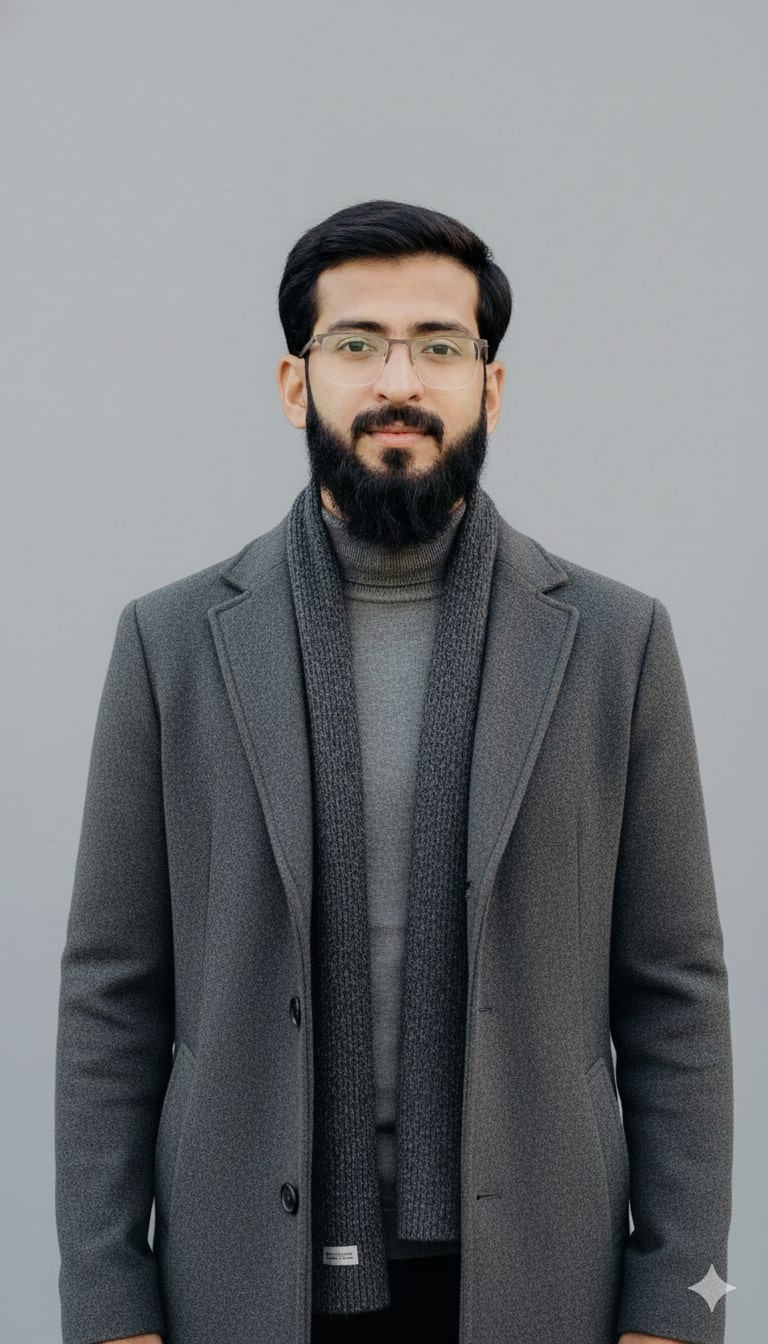
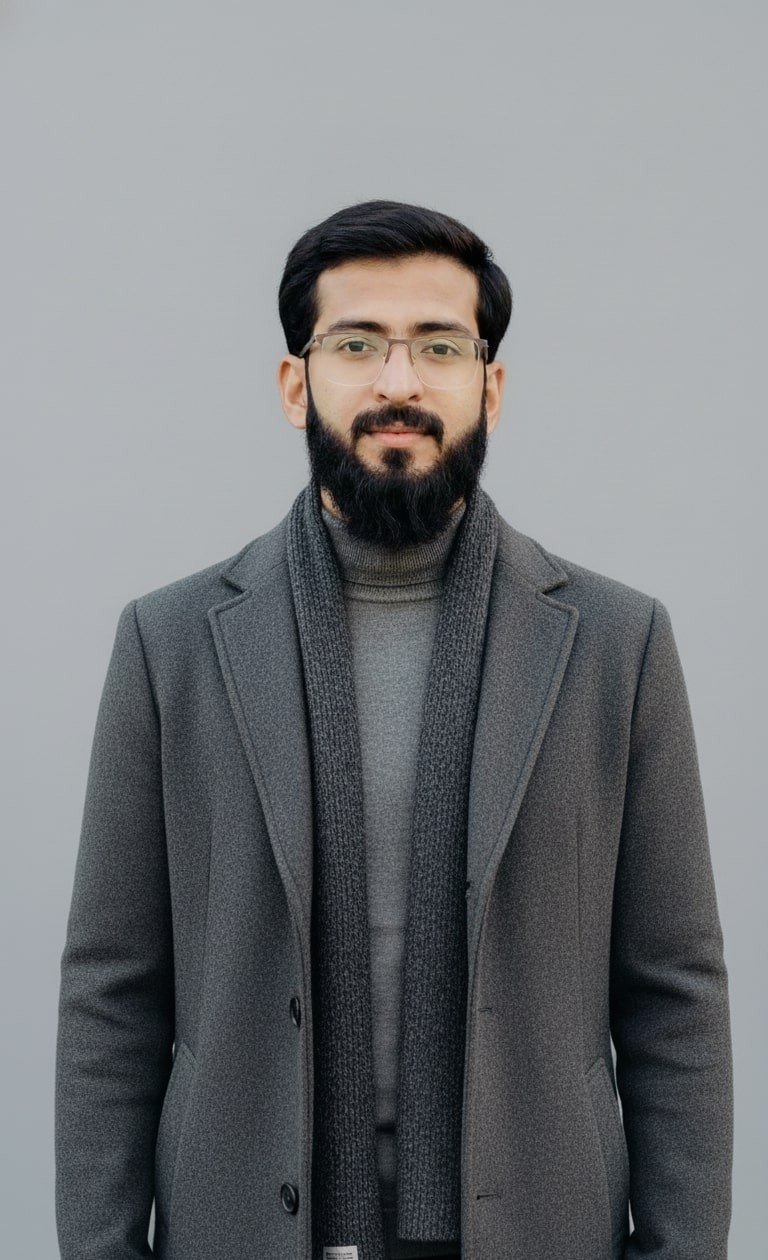
fix image of hero section

Changed region(s): [[0.0625, 0.1238, 0.9688, 1.0]]

diff --git a/src/site-lens/components/body/3d-crawl-diagram/components/graph/graph-settings-panel.tsx b/src/site-lens/components/body/3d-crawl-diagram/components/graph/graph-settings-panel.tsx
@@ -112,7 +112,7 @@ export const GraphSettingsPanel: React.FC<IGraphSettingsPanelProps> = ({
       </div>
       <div className='flex flex-col gap-2 py-2'>
         <div className='flex flex-col gap-2 mb-3 last:mb-0'>
-          <span className={`font-['Geist_Sans',sans-serif] text-sm font-normal ${theme === 'dark' ? 'text-white' : 'text-[#1a1a1a]'}`}>Size nodes by</span>
+          <span className={`font-['Manrope',sans-serif] text-sm font-normal ${theme === 'dark' ? 'text-white' : 'text-[#1a1a1a]'}`}>Size nodes by</span>
           <SimpleTooltip title={sizes.find(o => o.value === sizeBy)?.label ?? sizeBy} placement='right' color='#000' open={isSizeDropdownOpen ? false : undefined}>
             <DropdownMenu onOpenChange={open => setIsSizeDropdownOpen(open)}>
               <DropdownMenuTrigger asChild>
@@ -142,7 +142,7 @@ export const GraphSettingsPanel: React.FC<IGraphSettingsPanelProps> = ({
 
         <div className='flex flex-col gap-2 mb-3 last:mb-0'>
           <SimpleTooltip title='Choose the metric that determines node colors'>
-            <span className={`inline-block font-['Geist_Sans',sans-serif] text-sm font-normal ${theme === 'dark' ? 'text-white' : 'text-[#1a1a1a]'}`}>Color nodes by</span>
+            <span className={`inline-block font-['Manrope',sans-serif] text-sm font-normal ${theme === 'dark' ? 'text-white' : 'text-[#1a1a1a]'}`}>Color nodes by</span>
           </SimpleTooltip>
           <SimpleTooltip title={COLOR_OPTIONS.find(o => o.value === colorBy)?.label ?? colorBy} placement='right' color='#000' open={isColorDropdownOpen ? false : undefined}>
             <DropdownMenu onOpenChange={open => setIsColorDropdownOpen(open)}>
@@ -185,7 +185,7 @@ export const GraphSettingsPanel: React.FC<IGraphSettingsPanelProps> = ({
 
         <div className='flex flex-col gap-2 mb-3 last:mb-0'>
           <div className='flex items-center justify-between'>
-            <span className={`font-['Geist_Sans',sans-serif] text-sm font-normal ${theme === 'dark' ? 'text-white' : 'text-[#1a1a1a]'}`}>Max Depth</span>
+            <span className={`font-['Manrope',sans-serif] text-sm font-normal ${theme === 'dark' ? 'text-white' : 'text-[#1a1a1a]'}`}>Max Depth</span>
             <span className='text-sm font-semibold text-brand-primary'>{expandToLevel}</span>
           </div>
           <Slider
@@ -200,11 +200,11 @@ export const GraphSettingsPanel: React.FC<IGraphSettingsPanelProps> = ({
 
       <div className='flex flex-col gap-3 mt-3'>
         <div className={NODES_ON_DRAG_CLASS}>
-          <span className={`shrink-0 font-['Geist_Sans',sans-serif] text-sm font-normal ${theme === 'dark' ? 'text-white' : 'text-[#1a1a1a]'}`}>Show labels</span>
+          <span className={`shrink-0 font-['Manrope',sans-serif] text-sm font-normal ${theme === 'dark' ? 'text-white' : 'text-[#1a1a1a]'}`}>Show labels</span>
           <Switch checked={showLabels} onCheckedChange={checked => setShowLabels(!!checked)} />
         </div>
         <div className={NODES_ON_DRAG_CLASS}>
-          <span className={`shrink-0 font-['Geist_Sans',sans-serif] text-sm font-normal ${theme === 'dark' ? 'text-white' : 'text-[#1a1a1a]'}`}>Fix nodes on drag</span>
+          <span className={`shrink-0 font-['Manrope',sans-serif] text-sm font-normal ${theme === 'dark' ? 'text-white' : 'text-[#1a1a1a]'}`}>Fix nodes on drag</span>
           <Switch checked={nodesFixOnDrag} onCheckedChange={checked => handleNodesFixOnDrag(!!checked)} />
         </div>
       </div>

diff --git a/src/components/Hero.jsx b/src/components/Hero.jsx
@@ -26,7 +26,7 @@ export default function Hero() {
             Open to new opportunities
           </Reveal>
 
-          <Reveal as="h1" delay={1} className="text-[clamp(44px,8vw,88px)] leading-[1.02] font-bold tracking-[-0.03em] font-display">
+          <Reveal as="h1" delay={1} className="text-[clamp(36px,6vw,68px)] leading-[1.02] font-bold tracking-[-0.03em] font-display whitespace-nowrap">
             Muhammad <span className="grad-text">Anas</span>
           </Reveal>
 
@@ -73,24 +73,38 @@ export default function Hero() {
 
         <Reveal
           delay={2}
-          className="relative w-full h-105 sm:h-120 max-w-100 mx-auto lg:w-auto lg:h-auto lg:max-w-none lg:min-h-full lg:mx-0"
+          className="relative w-full max-w-120 sm:max-w-140 lg:max-w-150 aspect-square mx-auto lg:mx-0 flex items-center justify-center"
         >
-          <div className="absolute -inset-2.5 rounded-4xl bg-linear-to-br from-primary/30 to-violet/20 blur-xl opacity-60" />
-          <div className="absolute inset-0 rounded-[28px] overflow-hidden border border-edge/12 bg-card-2 shadow-[0_30px_70px_rgba(0,0,0,0.5)]">
-            <img
-              src="/anas.webp"
-              alt="Muhammad Anas"
-              className="absolute inset-0 w-full h-full object-cover"
-              fetchPriority="high"
-              loading="eager"
-              decoding="async"
-              onError={(e) => {
-                e.currentTarget.style.display = "none";
-              }}
+          <svg
+            className="absolute inset-0 w-full h-full scale-110"
+            style={{ filter: "blur(36px)" }}
+            viewBox="-100 -100 200 200"
+            preserveAspectRatio="xMidYMid meet"
+            aria-hidden="true"
+          >
+            <defs>
+              <linearGradient id="heroBlobGradient" x1="0%" y1="0%" x2="100%" y2="100%">
+                <stop offset="0%" stopColor="var(--color-primary)" />
+                <stop offset="100%" stopColor="var(--color-violet)" />
+              </linearGradient>
+            </defs>
+            <path
+              fill="url(#heroBlobGradient)"
+              opacity="0.75"
+              d="M54.2,-62.6C68.4,-53.2,76.8,-34.6,79.4,-15.6C82,3.4,78.8,22.8,69.1,38.4C59.4,54,43.2,65.8,25.4,71.5C7.6,77.2,-11.8,76.8,-29.4,70.2C-47,63.6,-62.8,50.8,-71.4,34.4C-80,18,-81.4,-2,-75.6,-19.4C-69.8,-36.8,-56.8,-51.6,-41.4,-60.8C-26,-70,-13,-73.6,3.5,-79C20,-84.4,40,-72,54.2,-62.6Z"
             />
-            <div className="absolute inset-0 bg-linear-to-t from-bg/60 via-transparent to-transparent" />
-            <div className="absolute inset-0 rounded-[28px] ring-1 ring-inset ring-white/10" />
-          </div>
+          </svg>
+          <img
+            src="/anas.webp"
+            alt="Muhammad Anas"
+            className="relative z-10 w-full h-full object-contain"
+            fetchPriority="high"
+            loading="eager"
+            decoding="async"
+            onError={(e) => {
+              e.currentTarget.style.display = "none";
+            }}
+          />
         </Reveal>
       </div>
     </section>

diff --git a/src/index.css b/src/index.css
@@ -1,8 +1,9 @@
 @import "tailwindcss";
-@import "@fontsource/geist-sans/400.css";
-@import "@fontsource/geist-sans/500.css";
-@import "@fontsource/geist-sans/600.css";
-@import "@fontsource/geist-sans/700.css";
+@import "@fontsource/manrope/400.css";
+@import "@fontsource/manrope/500.css";
+@import "@fontsource/manrope/600.css";
+@import "@fontsource/manrope/700.css";
+@import "@fontsource/manrope/800.css";
 
 /* ============================================================
    THEME
@@ -11,12 +12,12 @@
    wholesale for light mode further down — components reference
    the token (bg-fg, text-muted, border-edge, …), never a literal
    black/white, so this block is the single place either theme
-   is defined. Geist Sans carries both display/structure and body
+   is defined. Manrope carries both display/structure and body
    copy — one clean, modern, self-hosted family site-wide.
 ============================================================ */
 @theme {
-  --font-sans: "Geist Sans", -apple-system, BlinkMacSystemFont, "Segoe UI", Arial, sans-serif;
-  --font-display: "Geist Sans", -apple-system, sans-serif;
+  --font-sans: "Manrope", -apple-system, BlinkMacSystemFont, "Segoe UI", Arial, sans-serif;
+  --font-display: "Manrope", -apple-system, sans-serif;
 
   --color-bg: #000000;
   --color-bg-2: #0c0c0c;

diff --git a/src/site-lens/components/body/3d-crawl-diagram/components/graph/index.tsx b/src/site-lens/components/body/3d-crawl-diagram/components/graph/index.tsx
@@ -3030,7 +3030,7 @@ export const Graph = observer(({type, theme, showWatermark, watermarkLogoUrl, se
         </div>
       ) : (!dataLoader && !depthNodesData.nodes?.length) && (
         <div className='flex items-center justify-center min-h-[400px]' style={{backgroundColor: themeColors.bg}}>
-          <div className="font-['Geist_Sans',sans-serif] text-sm">
+          <div className="font-['Manrope',sans-serif] text-sm">
             <EmptyState className={theme === 'dark' ? 'text-white' : 'text-[#1a1a1a]'} />
           </div>
         </div>

diff --git a/src/components/stack/Graph3D.jsx b/src/components/stack/Graph3D.jsx
@@ -117,7 +117,7 @@ export default function Graph3D() {
             const sprite = new SpriteText(node.name);
             sprite.color = isGroup || isRoot ? "#f8fafc" : "#cbd5e1";
             sprite.textHeight = isRoot ? 7 : isGroup ? 6 : 4.5;
-            sprite.fontFace = "Geist Sans, sans-serif";
+            sprite.fontFace = "Manrope, sans-serif";
             sprite.fontWeight = isRoot || isGroup ? "600" : "400";
             sprite.material.depthWrite = false;
             sprite.position.set(0, -LABEL_OFFSET[node.kind], 0);

diff --git a/src/site-lens/components/body/3d-crawl-diagram/components/graph/graph-tailwind.ts b/src/site-lens/components/body/3d-crawl-diagram/components/graph/graph-tailwind.ts
@@ -122,7 +122,7 @@ export const getSettingsPanelExpandedClass = (isDark: boolean) => classNames(
 
 export const getResetButtonClass = (isDark: boolean) => classNames(
   'flex items-center justify-center gap-2 w-full h-[34px] rounded-lg border border-solid cursor-pointer',
-  `font-['Geist_Sans',sans-serif] text-[12.5px] font-semibold`,
+  `font-['Manrope',sans-serif] text-[12.5px] font-semibold`,
   isDark ? 'bg-[#1A1B24] border-[#24262F] text-[#A7A9B4]' : 'bg-[#F7F7FB] border-[#E6E6EA] text-[#4E5156]',
 );
 

diff --git a/src/components/stack/Graph2D.jsx b/src/components/stack/Graph2D.jsx
@@ -137,7 +137,7 @@ export default function Graph2D() {
             }
 
             const fontSize = (isRoot ? 16 : isGroup ? 14 : 12) / globalScale;
-            ctx.font = `${isRoot || isGroup ? "600" : "400"} ${fontSize}px "Geist Sans", sans-serif`;
+            ctx.font = `${isRoot || isGroup ? "600" : "400"} ${fontSize}px "Manrope", sans-serif`;
             ctx.textAlign = "center";
             ctx.textBaseline = "top";
             ctx.fillStyle = isGroup || isRoot ? "#f8fafc" : "#cbd5e1";

diff --git a/src/site-lens/components/body/lda-diagram/components/word-cloud-modal.tsx b/src/site-lens/components/body/lda-diagram/components/word-cloud-modal.tsx
@@ -52,7 +52,7 @@ const WordCloudModal: React.FC<WordCloudModalProps> = ({isOpen, onClose, topic, 
       .enter()
       .append('text')
       .style('font-size', d => `${d.size}px`)
-      .style('font-family', 'Geist Sans, Arial, sans-serif')
+      .style('font-family', 'Manrope, Arial, sans-serif')
       .style('font-weight', d => d.weight / maxWeight > 0.5 ? 'bold' : 'normal')
       .style('fill', d => colorScale(d.weight))
       .attr('text-anchor', 'middle')

diff --git a/src/components/stack/HierarchyTree.jsx b/src/components/stack/HierarchyTree.jsx
@@ -37,7 +37,7 @@ function renderNode({ nodeDatum, toggleNode }) {
         fontSize={isRoot ? 16 : isGroup ? 13.5 : 12}
         fontWeight={isRoot || isGroup ? 600 : 500}
         letterSpacing="0.01em"
-        fontFamily="Geist Sans, system-ui, -apple-system, Segoe UI, sans-serif"
+        fontFamily="Manrope, system-ui, -apple-system, Segoe UI, sans-serif"
       >
         {nodeDatum.name}
       </text>

diff --git a/src/site-lens/components/body/tree-diagram.tsx b/src/site-lens/components/body/tree-diagram.tsx
@@ -338,7 +338,7 @@ export const TreeDiagram = observer(({
             />
           </div>
         </>) :
-        (<div className="font-['Geist_Sans',sans-serif] text-sm">
+        (<div className="font-['Manrope',sans-serif] text-sm">
           <EmptyState className={isDark ? 'text-white' : 'text-[#1a1a1a]'} />
         </div>)
     )
